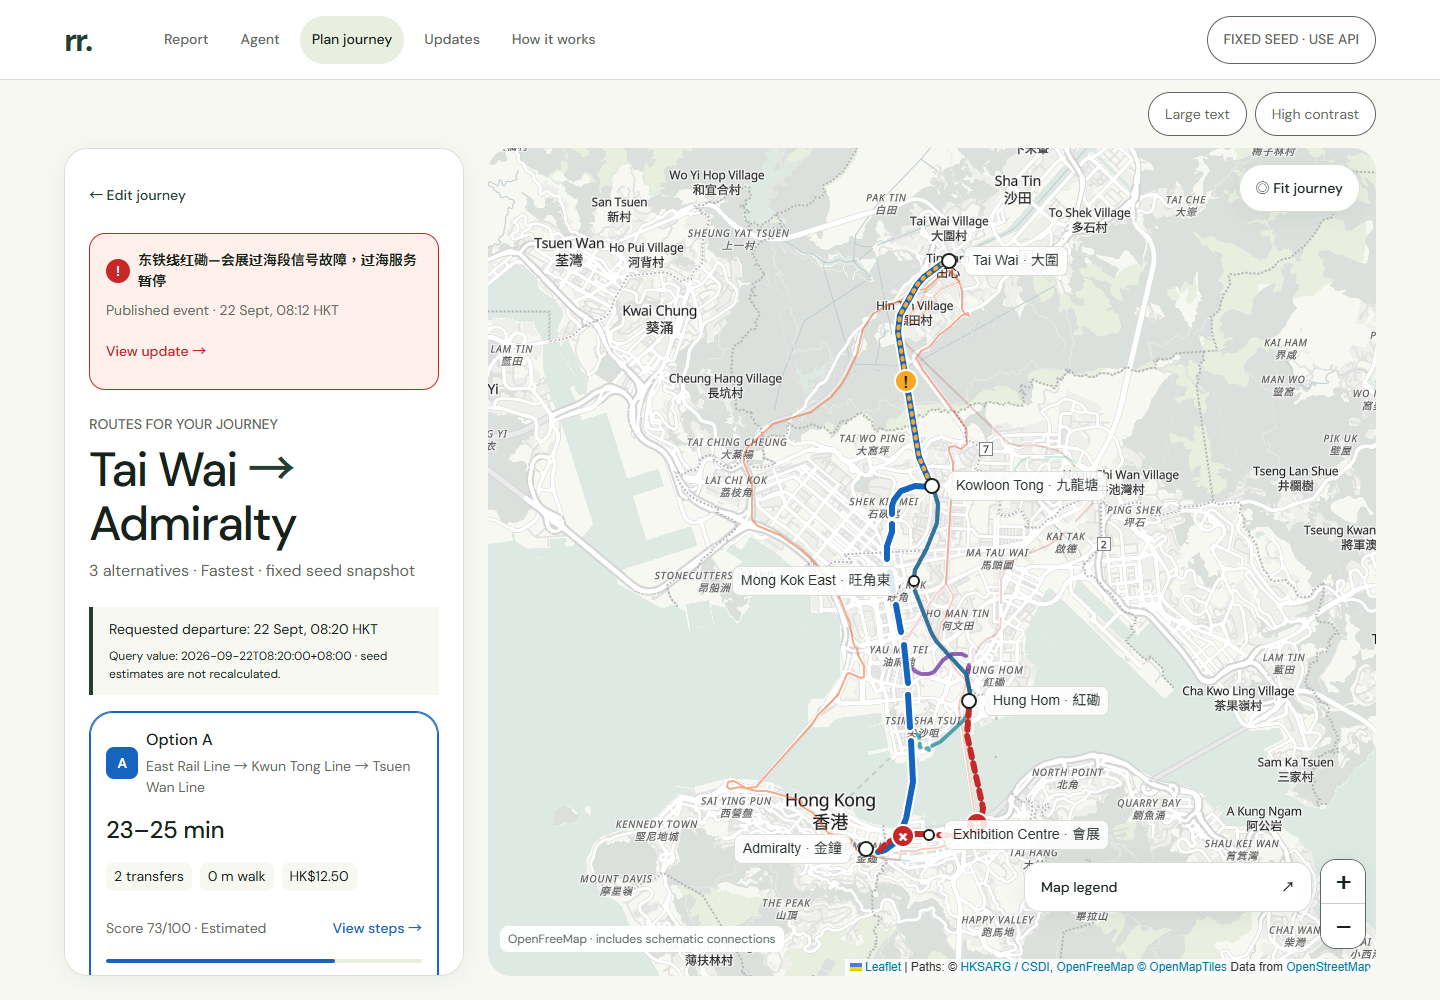
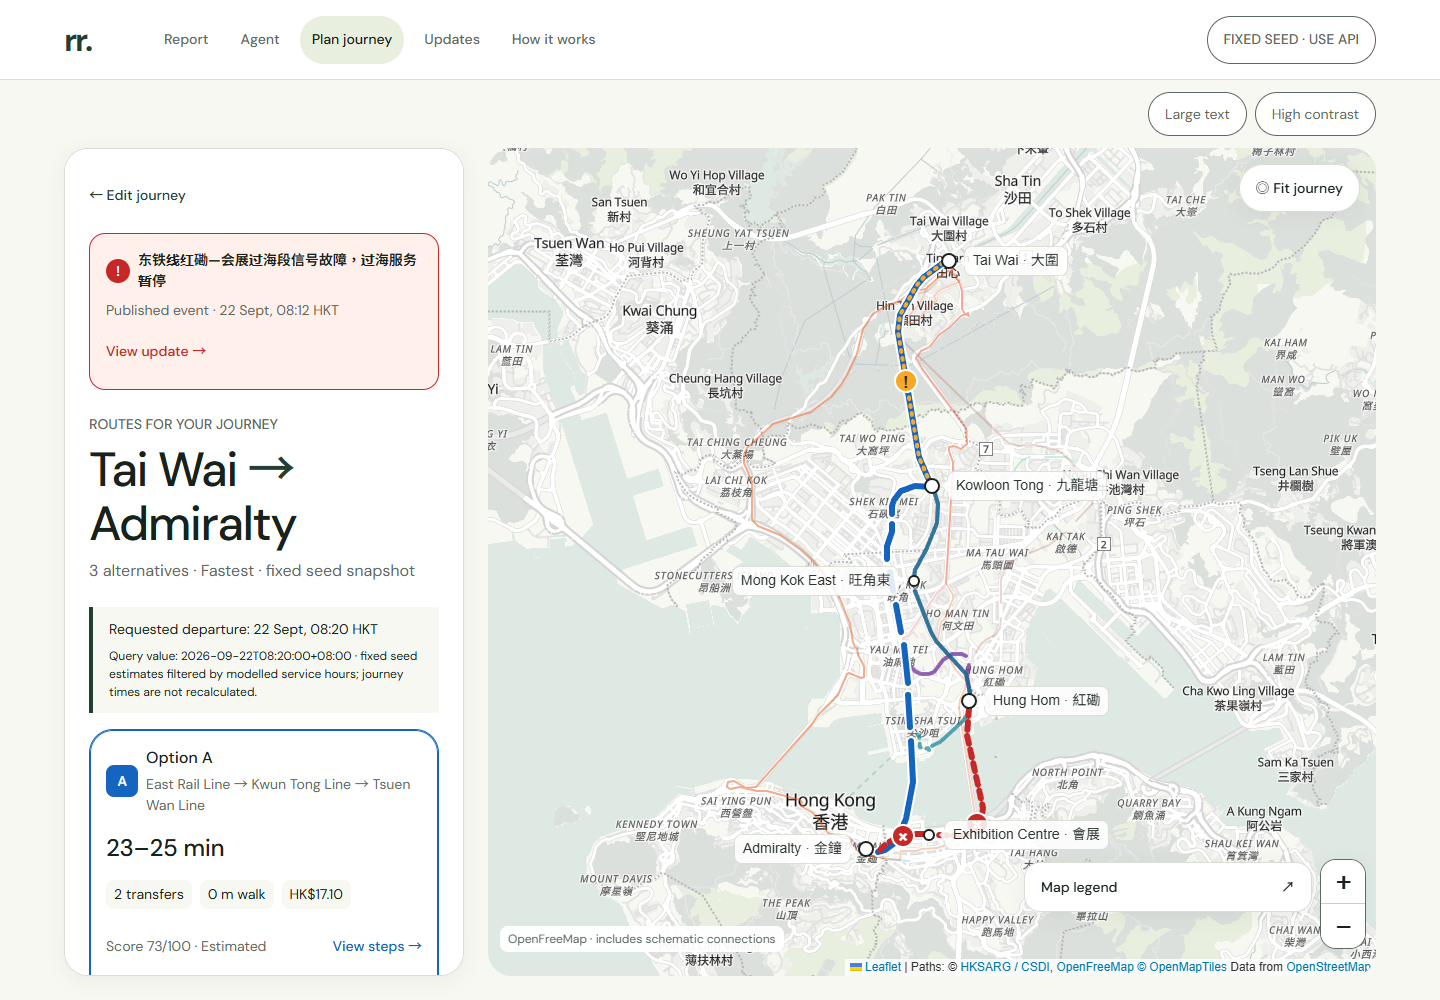
Refresh key frontend evidence after fare synchronization

Changed region(s): [[0.0625, 0.651, 0.2812, 0.961], [0.2188, 0.93, 0.2812, 0.961], [0.2812, 0.713, 0.3125, 0.744]]

diff --git a/docs/acceptance/frontend-polish-2026-10-11.md b/docs/acceptance/frontend-polish-2026-10-11.md
@@ -103,6 +103,14 @@ in `frontend-polish-evidence/` for PR review. The full local capture remains in
 text and high contrast variants. Baseline captures precede the service-hours
 update in `d07730d`.
 
+`after-routes-1440.png` and `after-planner-390.png` were refreshed after the
+fare merge using code commit `d1167a3`. The desktop result now shows the
+official seed rail fare **HK$17.10**; the timestamp and commits are recorded
+in [fare-sync capture metadata](frontend-polish-evidence/fare-sync-capture.json).
+All other screenshots and the original production smoke record were captured
+before the fare merge. Older images may show **HK$12.50** and document the
+visual baseline, rather than the current ticket calculation.
+
 - [Before · desktop results](frontend-polish-evidence/before-routes-1440.png)
 - [After · desktop results](frontend-polish-evidence/after-routes-1440.png)
 - [Before · mobile planner](frontend-polish-evidence/before-planner-390.png)
